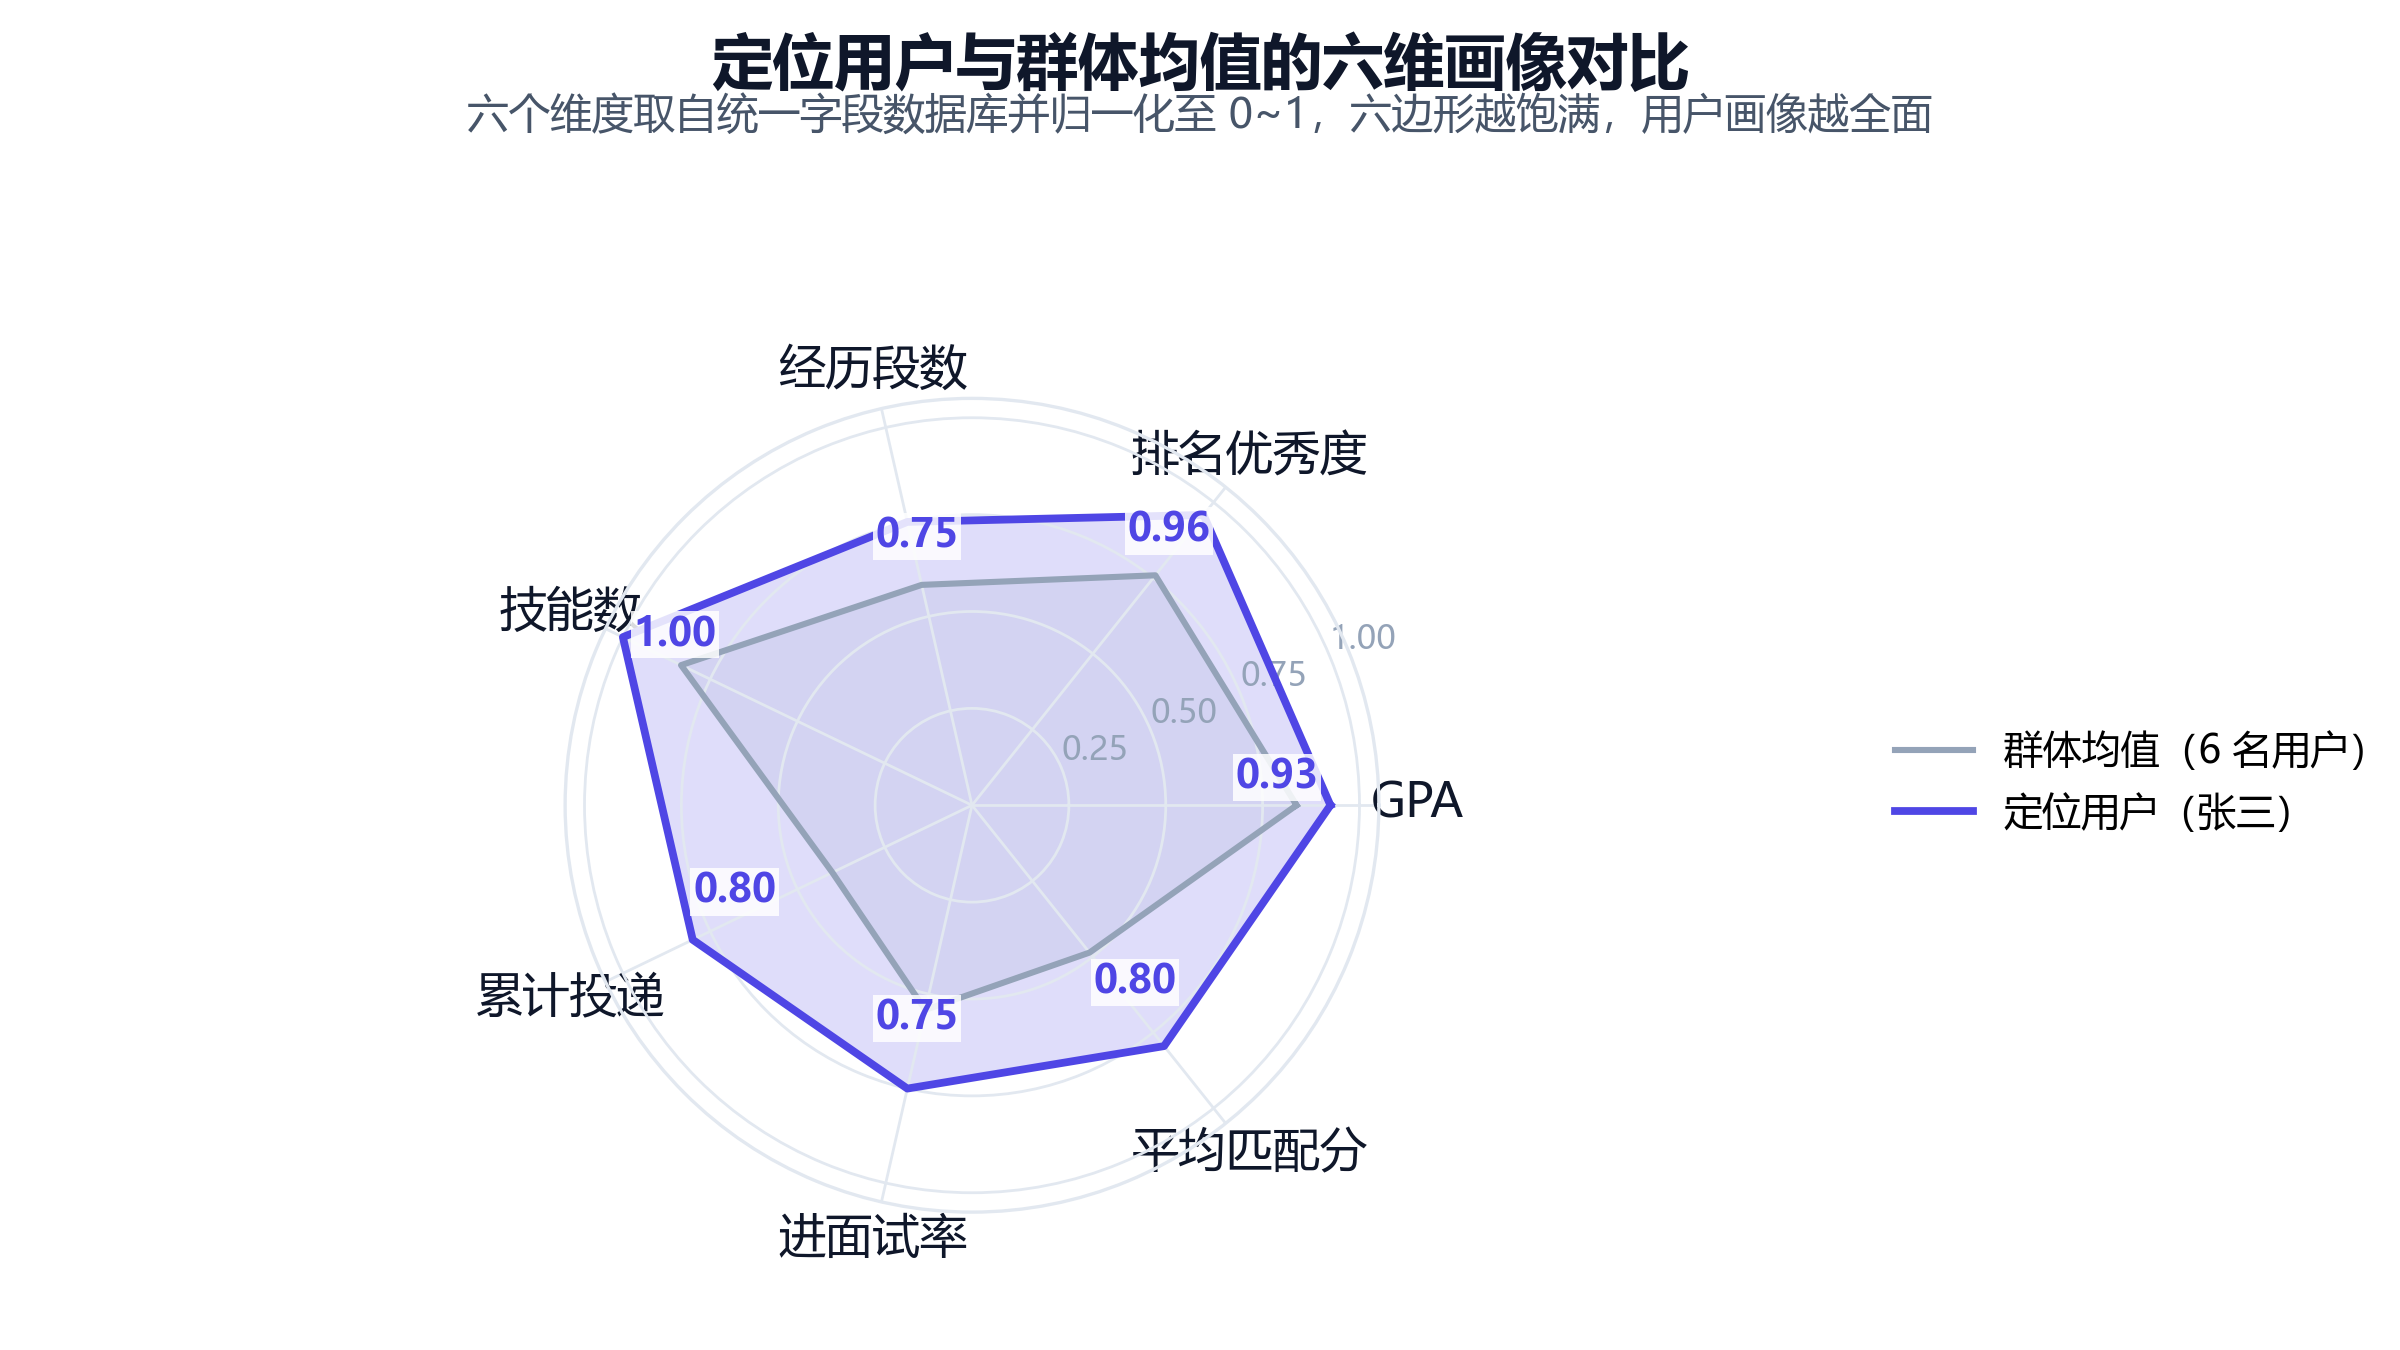
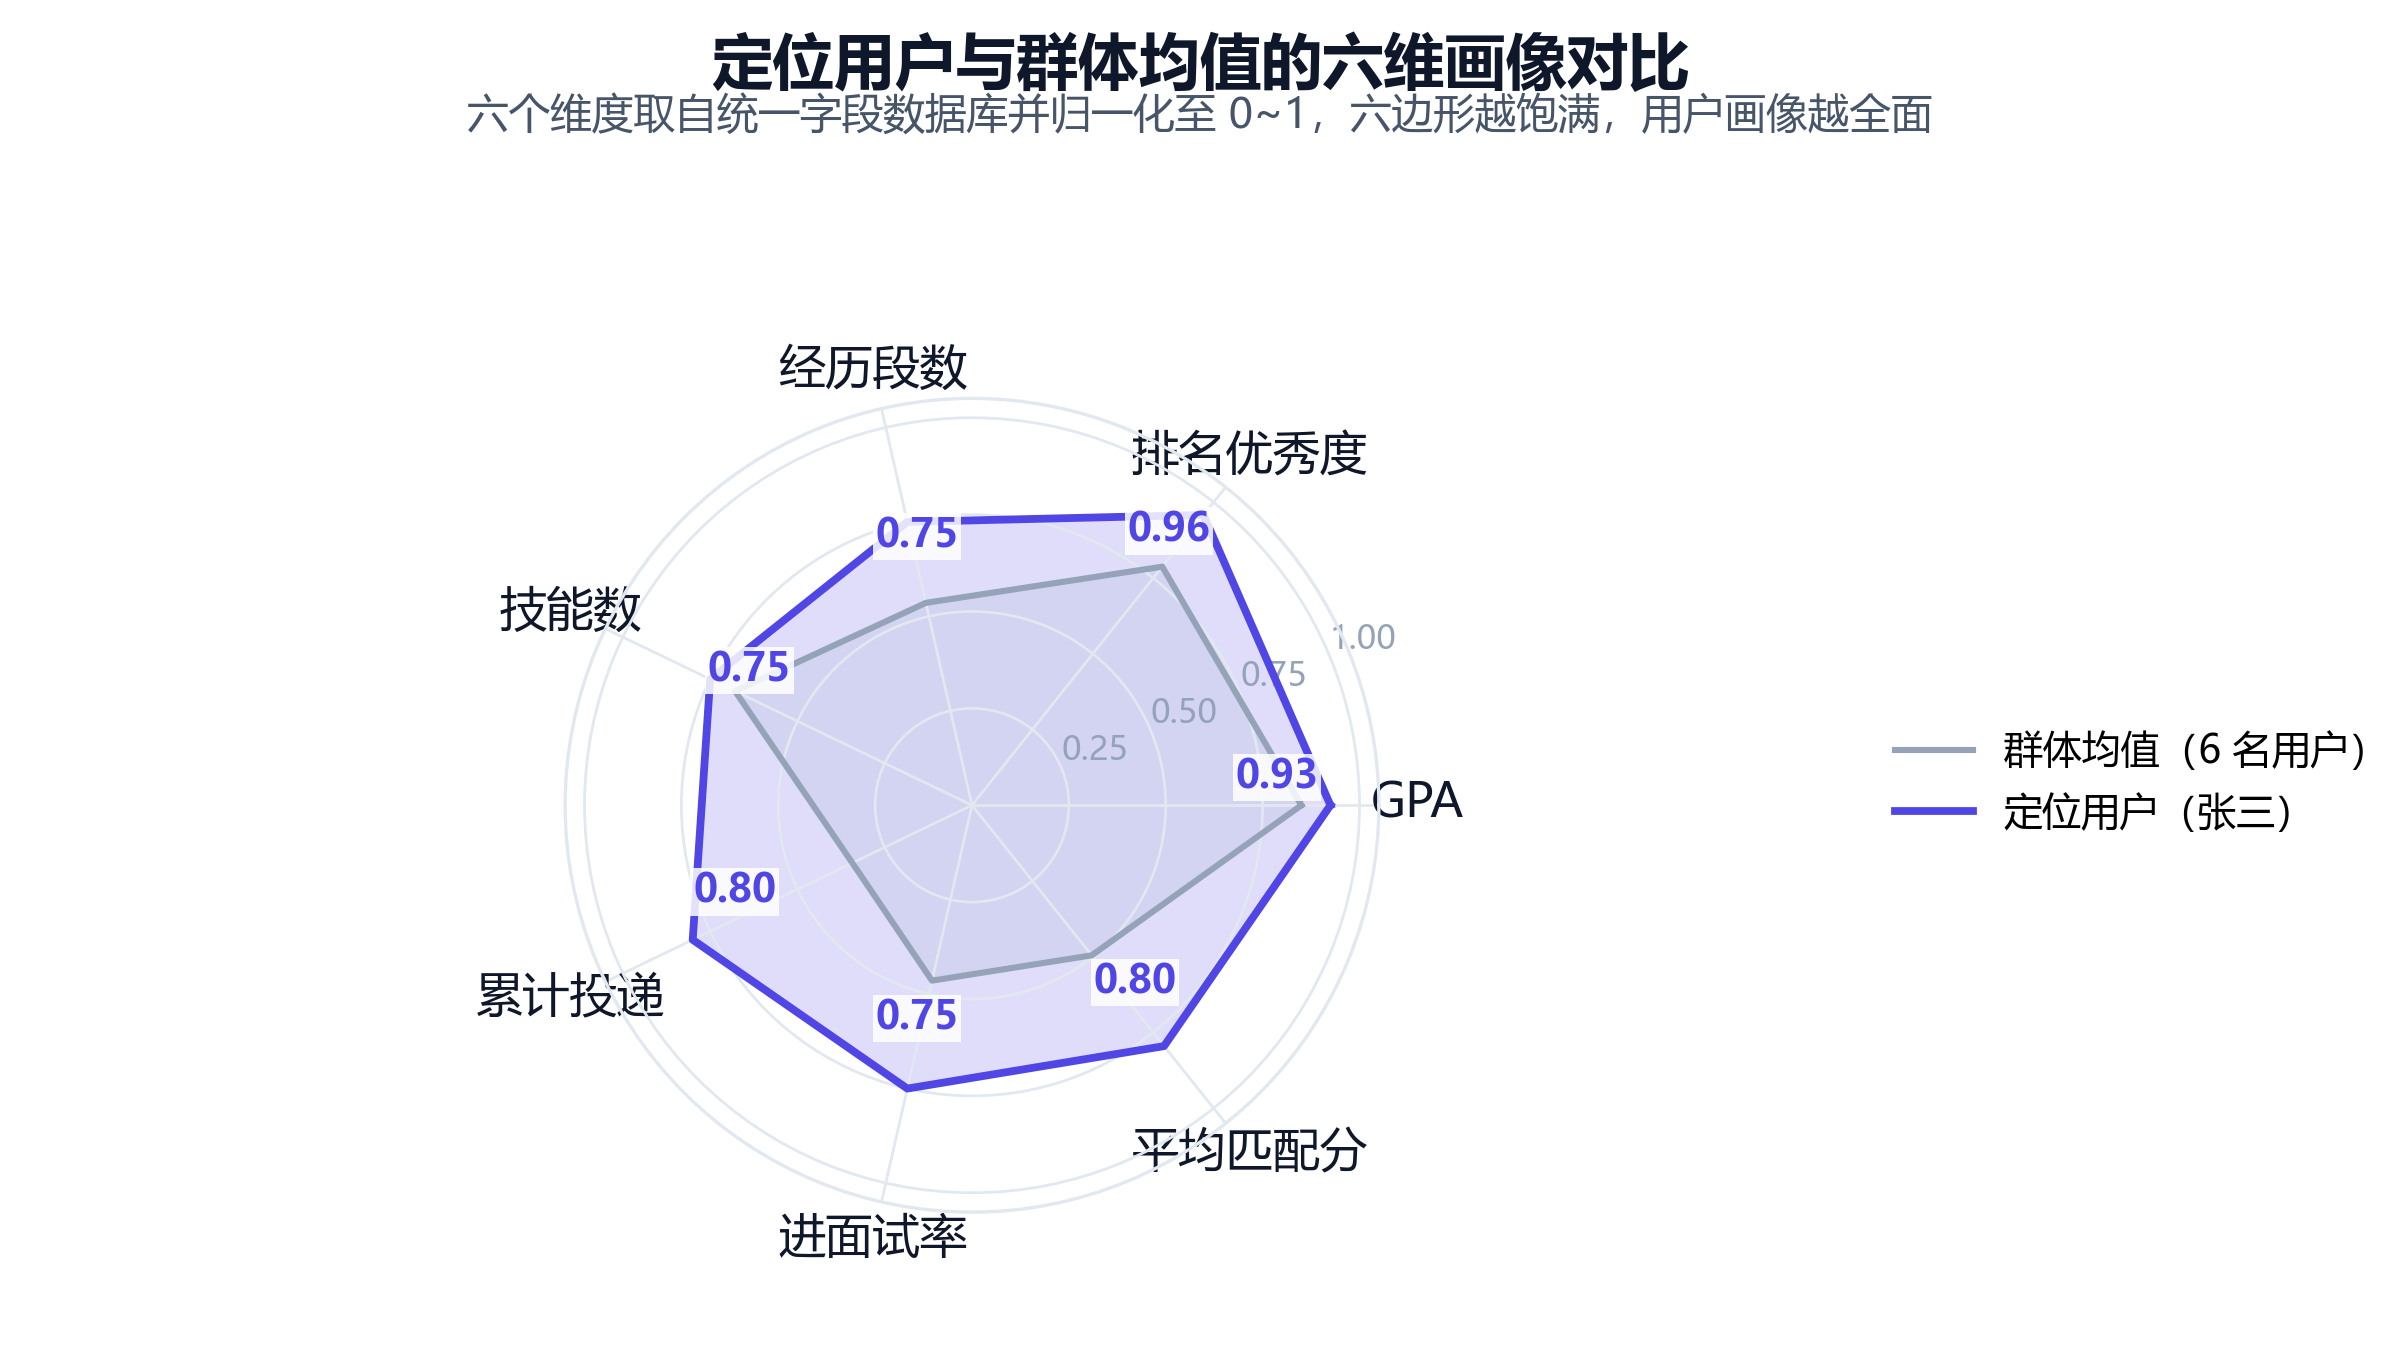
docs(defense): fig5 岗位聚类图谱——627 个真实 Boss 检索岗位 K 均值+PCA 三维点云
- _harvest_boss.py 改用 DrissionPage 旁听浏览器接口，规避 code:37 安全校验；
  14 个关键词 x 3 页采集，去重入库 627 个真实岗位
- fig5：统一字段特征（薪资/学历/经验/技能/关键词）z-score 标准化，
  K 均值聚类 K=5 + PCA 三维投影，2σ 椭球包络，点云可视化

diff --git a/_defense_figs.py b/_defense_figs.py
@@ -291,9 +291,156 @@ def fig4(ids, names, X):
     print("saved fig4")
 
 
+# ================================================================ fig5 岗位聚类图谱（真实 Boss 检索数据）
+def _job_features():
+    """从 jobs 表读取真实检索岗位，构建统一字段特征矩阵。"""
+    import re
+    deg_map = {"学历不限": 0.5, "大专": 1.0, "本科": 2.0, "硕士": 3.0, "博士": 4.0}
+    exp_map = {"经验不限": 0.0, "应届生": 0.5, "1年以内": 0.7, "1-3年": 1.0,
+               "3-5年": 2.0, "5-10年": 3.0, "10年以上": 4.0}
+    kw_list = ["Python", "Java", "前端", "算法", "数据", "测试", "运维", "C++"]
+    rows, metas = [], []
+    with db.get_conn() as conn:
+        recs = conn.execute("SELECT fields FROM jobs WHERE active=1").fetchall()
+    for r in recs:
+        f = json.loads(r["fields"])
+        name = f.get("岗位名称", "")
+        if not name or name.startswith("演示") or "127.0.0.1" in f.get("岗位链接", ""):
+            continue  # 剔除演示岗与 mock 岗，只留真实 Boss 岗位
+        m = re.search(r"(\d+)\s*-\s*(\d+)\s*[Kk]", f.get("薪资", ""))
+        sal = (float(m.group(1)) + float(m.group(2))) / 2 if m else np.nan
+        deg = deg_map.get(f.get("学历", ""), 2.0) / 4.0
+        exp = exp_map.get(f.get("经验", ""), 0.0) / 4.0
+        skl = min(len([s for s in re.split(r"[、,，\s]+", f.get("技能", "")) if s]), 8) / 8.0
+        hay = (name + " " + f.get("技能", "") + " " + f.get("岗位描述", "")).lower()
+        kws = [1.0 if k.lower() in hay else 0.0 for k in kw_list]
+        rows.append([sal, deg, exp, skl] + kws)
+        metas.append((name, f.get("行业", "") or "其他", sal))
+    F = np.asarray(rows, dtype=float)
+    col_mean = np.nanmean(F, axis=0)
+    idx = np.where(np.isnan(F))
+    F[idx] = np.take(col_mean, idx[1])
+    mu, sd = F.mean(axis=0), F.std(axis=0) + 1e-9
+    return (F - mu) / sd, metas
+
+
+def fig5():
+    from collections import Counter
+    from matplotlib.lines import Line2D
+    from matplotlib.ticker import MaxNLocator
+    rng = np.random.default_rng(42)
+    Fs, metas = _job_features()
+    n = len(Fs)
+
+    def kmeans(P, k):
+        best = None
+        for _ in range(30):
+            cent = P[rng.choice(len(P), k, replace=False)]
+            lab = np.zeros(len(P), dtype=int)
+            for _ in range(50):
+                d = ((P[:, None, :] - cent[None]) ** 2).sum(-1)
+                lab = d.argmin(1)
+                new = np.array([P[lab == j].mean(0) if (lab == j).any() else cent[j]
+                                for j in range(k)])
+                if np.allclose(new, cent):
+                    break
+                cent = new
+            inertia = float(((P - cent[lab]) ** 2).sum())
+            if best is None or inertia < best[0]:
+                best = (inertia, lab.copy())
+        return best[1]
+
+    def silhouette(P, lab, k):
+        D = np.sqrt(((P[:, None, :] - P[None]) ** 2).sum(-1))
+        vals = []
+        for i in range(len(P)):
+            same = lab == lab[i]
+            same[i] = False
+            a = D[i, same].mean() if same.any() else 0.0
+            b = min(D[i, lab == j].mean() for j in range(k)
+                    if j != lab[i] and (lab == j).any())
+            vals.append((b - a) / max(a, b) if max(a, b) > 0 else 0.0)
+        return float(np.mean(vals))
+
+    lab = kmeans(Fs, 5)
+    best_k, best_lab, best_sil = 5, lab, silhouette(Fs, lab, 5)
+
+    Xc = Fs - Fs.mean(axis=0)
+    _, s, vt = np.linalg.svd(Xc, full_matrices=False)
+    proj = Xc @ vt.T[:, :3]
+    var = s ** 2 / np.sum(s ** 2)
+
+    PALETTE = ["#4F46E5", "#E11D48", "#D97706", "#0D9488", "#7C3AED"]
+    fig = plt.figure(figsize=(12, 6.75), dpi=200)
+    ax = fig.add_axes([0.04, 0.07, 0.70, 0.81], projection="3d")
+
+    for j in range(best_k):
+        P = proj[lab == j]
+        col = PALETTE[j % len(PALETTE)]
+        c = P.mean(axis=0)
+        if len(P) >= 3:
+            cov = np.cov(P.T) + np.eye(3) * 1e-9
+            vals, vecs = np.linalg.eigh(cov)
+            radii = 2.0 * np.sqrt(np.maximum(vals, 1e-12))
+            uu = np.linspace(0, 2 * np.pi, 24)
+            vv = np.linspace(0, np.pi, 14)
+            xs = np.outer(np.cos(uu), np.sin(vv))
+            ys = np.outer(np.sin(uu), np.sin(vv))
+            zs = np.outer(np.ones_like(uu), np.cos(vv))
+            sph = np.stack([xs.ravel(), ys.ravel(), zs.ravel()], 0)
+            ell = c[:, None] + vecs @ (radii[:, None] * sph)
+            ax.plot_surface(ell[0].reshape(xs.shape), ell[1].reshape(ys.shape),
+                            ell[2].reshape(zs.shape), color=col, alpha=0.09,
+                            linewidth=0)
+        ax.scatter(P[:, 0], P[:, 1], P[:, 2], s=34, c=col, alpha=0.62,
+                   edgecolors="white", linewidths=0.4, depthshade=False)
+
+    pad = 0.06 * max(np.ptp(proj[:, 0]), np.ptp(proj[:, 1]), np.ptp(proj[:, 2]))
+    ax.set_xlim(proj[:, 0].min() - pad, proj[:, 0].max() + pad)
+    ax.set_ylim(proj[:, 1].min() - pad, proj[:, 1].max() + pad)
+    ax.set_zlim(proj[:, 2].min() - pad, proj[:, 2].max() + pad)
+    try:
+        ax.set_box_aspect((1.6, 1.1, 0.85))
+    except Exception:
+        pass
+    ax.set_xlabel("第一主成分（%.0f%%）" % (var[0] * 100), color=SLATE, labelpad=8, fontsize=14)
+    ax.set_ylabel("第二主成分（%.0f%%）" % (var[1] * 100), color=SLATE, labelpad=8, fontsize=14)
+    ax.set_zlabel("第三主成分（%.0f%%）" % (var[2] * 100), color=SLATE, labelpad=8, fontsize=14)
+    ax.tick_params(labelsize=10.5, colors=MUTED)
+    for _axis in (ax.xaxis, ax.yaxis, ax.zaxis):
+        _axis.set_major_locator(MaxNLocator(5))
+    _titles(ax, "岗位画像：检索岗位在特征空间中自动聚类",
+            "统一字段特征经 K 均值聚类（K=%d，轮廓系数 %.2f）与主成分分析（PCA）投影至三维"
+            % (best_k, best_sil),
+            pad=40)
+    ax.view_init(elev=15, azim=-58)
+    for pane in (ax.xaxis, ax.yaxis, ax.zaxis):
+        pane.pane.set_alpha(0.02)
+        pane._axinfo["grid"].update(color="#EEF2F7", linewidth=0.7)
+
+    handles = []
+    for j in range(best_k):
+        cnt = int((lab == j).sum())
+        mem = [metas[i] for i in range(n) if lab[i] == j]
+        sal_vals = [m[2] for m in mem if not np.isnan(m[2])]
+        sal_txt = " · 均薪%.0fK" % (sum(sal_vals) / len(sal_vals)) if sal_vals else ""
+        handles.append(Line2D([0], [0], marker="o", color="none",
+                              markerfacecolor=PALETTE[j % len(PALETTE)], markersize=11,
+                              label="族%d（%d 个）%s" % (j + 1, cnt, sal_txt)))
+    fig.legend(handles=handles, loc="center left", bbox_to_anchor=(0.755, 0.56),
+               frameon=False, fontsize=11.5, labelspacing=1.2)
+    fig.text(0.77, 0.13,
+             "数据：Boss 直聘登录态检索，去重入库\n%d 个真实岗位；特征取自统一字段\n（薪资、学历、经验、技能、关键词）" % n,
+             fontsize=10, color=MUTED)
+    fig.savefig(os.path.join(OUT, "fig5_cluster3d.png"))
+    plt.close(fig)
+    print("saved fig5 (K=%d, silhouette=%.2f, n=%d)" % (best_k, best_sil, n))
+
+
 ids, names, X, feat = _load()
 fig1(ids, names, X)
 fig2(feat)
 fig3()
 fig4(ids, names, X)
-print("=== 4 张答辩用图完成 →", OUT)
+fig5()
+print("=== 5 张答辩用图完成 →", OUT)

diff --git a/_harvest_boss.py b/_harvest_boss.py
@@ -1,0 +1,29 @@
+"""真实 Boss 岗位采集：多关键词 x 每词多页，DrissionPage 旁听浏览器接口（规避 code:37）。
+
+运行：python _harvest_boss.py
+（复用 sessions/boss.json 持久化 profile 的登录浏览器；词间限速 4 秒；
+ store_jobs 只调一次，避免旧批次被置 inactive）
+"""
+import time
+
+import matching
+import session
+
+KEYWORDS = ["Python", "Java", "前端", "后端", "算法", "数据分析",
+            "测试", "产品", "运营", "机械", "财务", "销售", "设计", "嵌入式"]
+
+all_jobs = []
+for kw in KEYWORDS:
+    try:
+        jobs = session.dpage_search("boss", kw, pages=3)
+    except Exception as e:  # noqa
+        print("[失败]", kw, e)
+        jobs = []
+    print("%-8s 抓到 %d 个" % (kw, len(jobs)), flush=True)
+    all_jobs.extend(jobs)
+    if jobs:
+        time.sleep(4)
+
+print("原始合计:", len(all_jobs))
+n = matching.store_jobs(all_jobs) if all_jobs else 0
+print("去重入库:", n)
